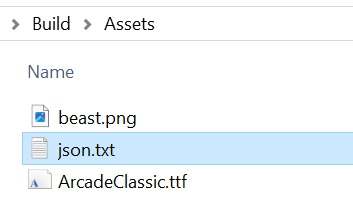
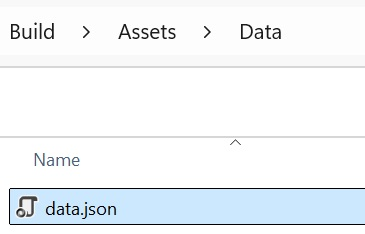
update new json read

diff --git a/_posts/GameDev-CPP/2024-08-07-gamedev-cpp-json.md b/_posts/GameDev-CPP/2024-08-07-gamedev-cpp-json.md
@@ -111,13 +111,15 @@ $(SolutionDir)ThirdParty\rapidjson\include
   + The functions are placed in a namespace to keep the function names in their own space **<your namespace::json>**
 
 ```
+#pragma once
 #include <rapidjson/document.h>
 #include <string>
 
-namespace <your namespace>::json
+namespace nu::json
 {
 	bool Load(const std::string& filename, rapidjson::Document& document);
 
+	// read json data
 	bool Read(const rapidjson::Value& value, const std::string& name, int& data);
 }
 ```
@@ -126,20 +128,22 @@ namespace <your namespace>::json
 + In the **Json.cpp** file, add code for the function definitions to load and read the **JSON** file.
 
 ```
+#include "pch.h"
 #include "Json.h"
 #include "File.h"
-#include "Logger.h"
 
 #include <rapidjson/istreamwrapper.h>
 #include <iostream>
 
-namespace <engine namespace>::json
+namespace nu::json
 {
-    bool Load(const std::string& filename, rapidjson::Document& document) {
+    bool Load(const std::string& filename, rapidjson::Document& document) 
+    {
         // read the file into a string
         std::string buffer;
-        if (!file::ReadTextFile(filename, buffer)) {
-            Logger::Error("Could not read file: {}.", filename);
+        if (!ReadTextFile(filename, buffer)) 
+        {
+            std::cerr << "Could not read file:" << filename << std::endl;
             return false;
         }
 
@@ -150,18 +154,21 @@ namespace <engine namespace>::json
         // set the json document from the stream
         document.ParseStream(istream);
         // check if the parse was successful
-        if (!document.IsObject()) {
-            Logger::Error("Could not parse Json: {}.", filename);
+        if (!document.IsObject()) 
+        {
+            std::cerr << "Could not parse JSON:" << filename << std::endl;
             return false;
         }
 
         return true;
     }
 
-    bool Read(const rapidjson::Value& value, const std::string& name, int& data) {
+    bool Read(const rapidjson::Value& value, const std::string& name, int& data) 
+    {
         // check if the value has the "<name>" and the correct data type
-        if (!value.HasMember(name.c_str()) || !value[name.c_str()].IsInt()) {
-            Logger::Error("Could not read Json value (int): {}.", name);
+        if (!value.HasMember(name.c_str()) || !value[name.c_str()].IsInt()) 
+        {
+            std::cerr << "Could not read JSON value (int):" << name << std::endl;
             return false;
         }
 
@@ -186,19 +193,22 @@ namespace <engine namespace>::json
 ```
 // load the json data from a file
 std::string buffer;
-<engine namespace>::file::ReadTextFile("json.txt", buffer);
-// show the contents of the json file (debug)
-std::cout << buffer << std::endl;
+if (ReadTextFile("data/data.json", buffer))
+{
+    // show the contents of the json file (debug)
+    std::cout << buffer << std::endl;
 
-// create json document from the json file contents
-rapidjson::Document document;
-<engine namespace>::json::Load("json.txt", document);
-
-// read the age data from the json
-int age;
-<engine namespace>::json::Read(document, "age", age);
-// show the age data
-std::cout << age << std::endl;
+    // create json document from the json file contents
+    rapidjson::Document document;
+    if (json::Load("data/data.json", document))
+    {
+        // read the age data (int) from the json
+        int age;
+        json::Read(document, "age", age);
+        // show the age data
+        std::cout << age << std::endl;
+    }
+}
 ```
 
 + After running the program, the console will display the contents of the **JSON** file and the **age** data.
@@ -220,8 +230,8 @@ _Add additional functions to load different data types from the **JSON** file._
 bool Read(const rapidjson::Value& value, const std::string& name, float& data);
 bool Read(const rapidjson::Value& value, const std::string& name, bool& data);
 bool Read(const rapidjson::Value& value, const std::string& name, std::string& data);
-bool Read(const rapidjson::Value& value, const std::string& name, vec2& data);
-bool Read(const rapidjson::Value& value, const std::string& name, vec3& data);
+bool Read(const rapidjson::Value& value, const std::string& name, Vector2& data);
+bool Read(const rapidjson::Value& value, const std::string& name, Vector3& data);
 ```
 
 + Create the definitions for the functions in Json.cpp.
